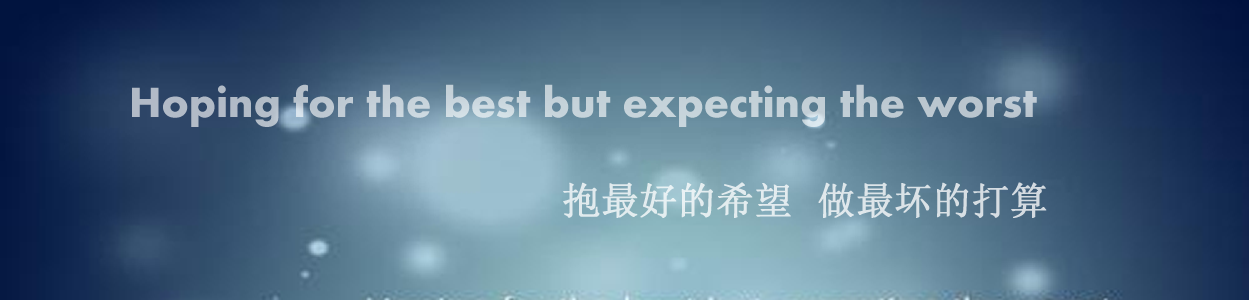
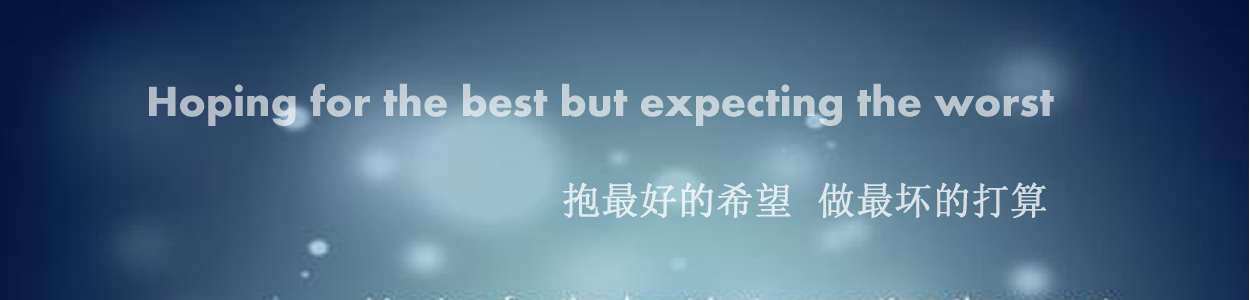
uodate home

Changed region(s): [[0.0936, 0.27, 0.8424, 0.42]]

diff --git a/index.html b/index.html
@@ -21,14 +21,14 @@
                 height: 300px;
                 text-align: center;
                 position: relative;
-                background-image: url(images/home.png);
+                background-image: url(images/bg-img.png);
             }
-            .header ul{
+            .header .menu{
                 position: absolute;
                 bottom: 0px;
                 right: 0px;
             }
-            li{
+            .menu li{
                 text-decoration: none;
                 display: inline-block;
                 cursor: pointer;
@@ -41,7 +41,7 @@
                 background-color: rgba(100,100,100,0.8);
             }
 
-            .active{
+            .menu .active{
                 background-color: rgba(250,250,250,0.8);
                 color: #000;
             }
@@ -51,24 +51,49 @@
                 height: 500px;
                 background-color: gray;
             }
-
+            
             .footer{
                 width: 100%;
                 height: 200px;
                 background-color: green; 
+            }
+            
+            .round {
+                position: absolute;
+                top: 100px;
+                right: 50px;
+            }
+            
+            .round li {
+                text-decoration: none;
+                display: block;
+                height: 14px;
+                width: 14px;
+                margin-top: 15px;
+                background-color: rgba(100,100,100,0.8);
+                border-radius: 7px;
+            } 
+
+            .round .checked{
+                background-color: #fff;
             }
         </style>
     </head>
     <body>
 		<div class="container">
     		<div class="header">
-                <ul>
+                <ul class="menu">
                     <li class="active">Home</li>
                     <li>Notes</li>
                     <li>Interests</li>
                     <li>Grow</li>
                     <li>About me</li>
-                </ul>    
+                </ul> 
+                <ul class="round">
+                    <li class="checked" value="0"></li>
+                    <li value="1"></li>
+                    <li value="2"></li>
+                </ul>
             </div>
             <div class="content">
                 这里是content部分
@@ -78,36 +103,54 @@
             </div>
 		</div>
         <script type="text/javascript">
+        var flag = true;
+        var endPosition = 0;
+        var currentItem = 0;
+        var timer = null;
         $(function(){
-            $(".header li").mouseenter(function(){
+            $(".menu li").mouseenter(function(){
                 this.classList.add("active");
                 $(this).siblings('li').each(function(index, el) {
                     this.classList.remove("active");
                 });
             });
-            
-        });
-        var flag = true;
-        var endPosition = 0;
-        var timer = setInterval(function(){
-            if(flag){
-                endPosition -= 1250;
-                if(endPosition == -5000){
-                    flag = false;
-                }
-            }else{
-                if(endPosition == 1250){
-                    flag = true;
-                }
-                endPosition += 1250;
-            }
-            /*var current = parseInt(this.style.left);
-            for (var i = 0; i < 10; i++) {
-                endPosition - current
-            };*/
-            $(".header")[0].style.backgroundPosition = endPosition + "px";
+            $(".round li").mouseenter(function(){
+                clearInterval(timer);
+                this.classList.add("checked");
+                $(this).siblings('li').each(function(index, el) {
+                    this.classList.remove("checked");
+                });
+                var leftPositon = -(this.value)*1250;
+                $(".header")[0].style.backgroundPosition = leftPositon + "px";
+                setTimer();
+            });
 
-        }, 1500);
+        });
+        function setTimer(){
+            timer = setInterval(function(){
+                if(flag){
+                    endPosition -= 1250;
+                    currentItem ++;
+                    if(endPosition == -2500){
+                        flag = false;
+                    }
+                }else{
+                    endPosition += 1250;
+                    currentItem --;
+                    if(endPosition == 0){
+                        flag = true;
+                    }
+                }
+                $(".header")[0].style.backgroundPosition = endPosition + "px";
+                var that = $(".round").find("li")[currentItem];
+                that.classList.add('checked');
+                $(that).siblings('li').each(function(index, el) {
+                    this.classList.remove("checked");
+                });
+            }, 1500);
+        }
+
+        setTimer();
         </script>
     </body>
 </html>
